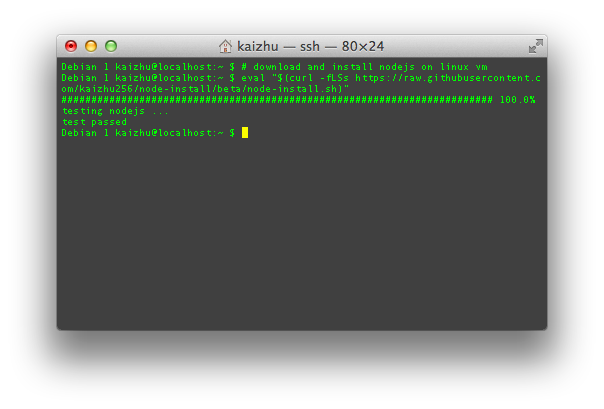
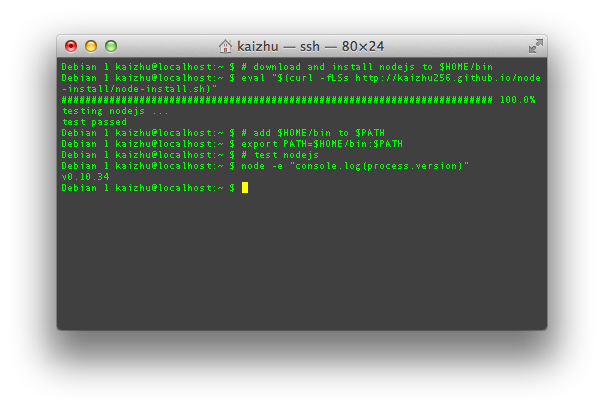
update screenshot.png

diff --git a/README.md b/README.md
@@ -8,7 +8,7 @@ shell script to install nodejs on vanilla linux vm
 ## usage example
 ```
 # download and install nodejs to $HOME/bin
-eval "$(curl -fLSs https://raw.githubusercontent.com/kaizhu256/node-install/beta/node-install.sh)"
+eval "$(curl -fLSs http://kaizhu256.github.io/node-install/node-install.sh)"
 # add $HOME/bin to $PATH
 export PATH=$HOME/bin:$PATH
 # test nodejs
